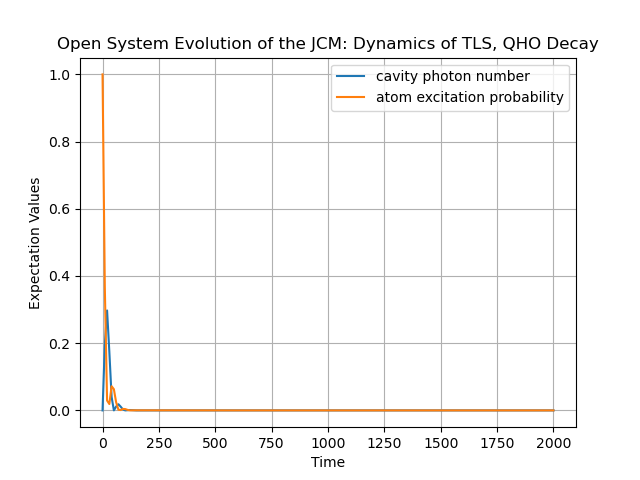
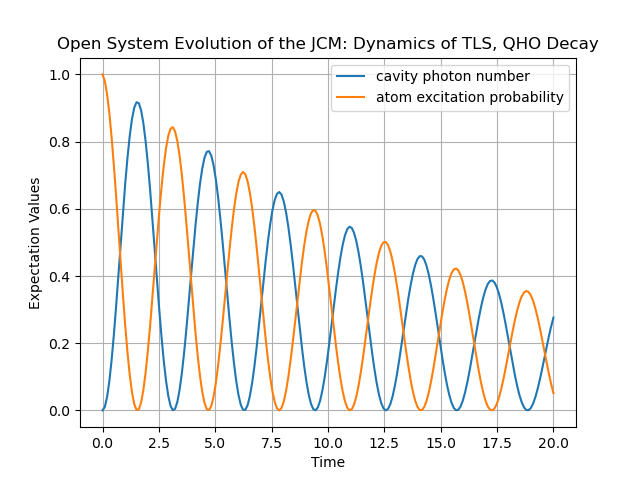
Corrects Jump Operator for QHO.

diff --git a/Research Project/Code/SigZ_Simulation.py b/Research Project/Code/SigZ_Simulation.py
@@ -39,7 +39,7 @@ coherence_closed = sim_closed.rel_coherence(results_closed)
 # Open Dynamics (Spontaneous Emission)
 gamma = np.sqrt(0.1)
 
-L_tls = gamma * s_lower
+L_tls = [gamma * s_lower]
 times_open = np.linspace(0.0, 500.0, 200)
 e_ops = [adag * a, s_raise * s_lower]
 sim_open_tls = TLSQHOSimulator(H, psi0, L_tls, e_ops, times_open)
@@ -57,10 +57,8 @@ sim_open_qho = TLSQHOSimulator(H, psi0, L_qho, e_ops, times_open)
 results_open_qho = sim_open_qho.evolve()
 expect_open_qho = sim_open_qho.expect(results_open_qho)
 
-L_tlsqho = [gamma_th * (n_omega + 1) * a, gamma_th * N * adag, L_tls]
-sim_open_tlsqho = TLSQHOSimulator(
-    H, psi0, L_tlsqho, e_ops, times=np.linspace(0.0, 2000.0, 200)
-)
+L_tlsqho = L_tls + L_qho
+sim_open_tlsqho = TLSQHOSimulator(H, psi0, L_tlsqho, e_ops)
 results_open_tlsqho = sim_open_tlsqho.evolve()
 expect_open_tlsqho = sim_open_tlsqho.expect(results_open_tlsqho)
 
@@ -70,7 +68,7 @@ sim_closed.plot(
     "Entanglement",
     "CQS_ent",
     "SigZ",
-    legend=None
+    legend=None,
 )
 sim_closed.plot(
     coherence_closed,
@@ -78,7 +76,7 @@ sim_closed.plot(
     "Coherence",
     "CQS_coh",
     "SigZ",
-    legend=None
+    legend=None,
 )
 
 sim_open_tls.plot(
@@ -87,7 +85,7 @@ sim_open_tls.plot(
     "Expectation Values",
     "TLS_Decay",
     "SigZ",
-    ["cavity photon number", "atom excitation probability"]
+    ["cavity photon number", "atom excitation probability"],
 )
 
 sim_open_qho.plot(
@@ -96,7 +94,7 @@ sim_open_qho.plot(
     "Expectation Values",
     "OQS_QHO_loss",
     "SigZ",
-    ["cavity photon number", "atom excitation probability"]
+    ["cavity photon number", "atom excitation probability"],
 )
 
 sim_open_tlsqho.plot(
@@ -105,5 +103,5 @@ sim_open_tlsqho.plot(
     "Expectation Values",
     "OQS_QHOTLS",
     "SigZ",
-    ["cavity photon number", "atom excitation probability"]
+    ["cavity photon number", "atom excitation probability"],
 )

diff --git a/Research Project/Code/JCM_simulation.py b/Research Project/Code/JCM_simulation.py
@@ -35,7 +35,7 @@ coherence_closed = sim_closed.rel_coherence(results_closed)
 # Open Dynamics (Spontaneous Emission)
 gamma = np.sqrt(0.1)
 
-L_tls = gamma * s_lower
+L_tls = [gamma * s_lower]
 times_open = np.linspace(0.0, 500.0, 200)
 e_ops = [adag * a, s_raise * s_lower]
 sim_open_tls = TLSQHOSimulator(H, psi0, L_tls, e_ops, times_open)
@@ -46,17 +46,15 @@ expect_open_tls = sim_open_tls.expect(results_open_tls)
 gamma_th = 0.1
 T = 300  # avg T in Kelvin
 n_omega = 1 / (np.exp(w / (k_B * T)) - 1)
-kappa = gamma_th * (1 + n_omega)
 
-L_qho = kappa * a
+
+L_qho = [gamma_th * (1 + n_omega) * a, gamma_th * n_omega * adag]
 sim_open_qho = TLSQHOSimulator(H, psi0, L_qho, e_ops, times_open)
 results_open_qho = sim_open_qho.evolve()
 expect_open_qho = sim_open_qho.expect(results_open_qho)
 
-L_tlsqho = [L_qho, L_tls]
-sim_open_tlsqho = TLSQHOSimulator(
-    H, psi0, L_tlsqho, e_ops, times=np.linspace(0.0, 2000.0, 200)
-)
+L_tlsqho = L_qho + L_tls
+sim_open_tlsqho = TLSQHOSimulator(H, psi0, L_tlsqho, e_ops)
 results_open_tlsqho = sim_open_tlsqho.evolve()
 expect_open_tlsqho = sim_open_tlsqho.expect(results_open_tlsqho)
 
